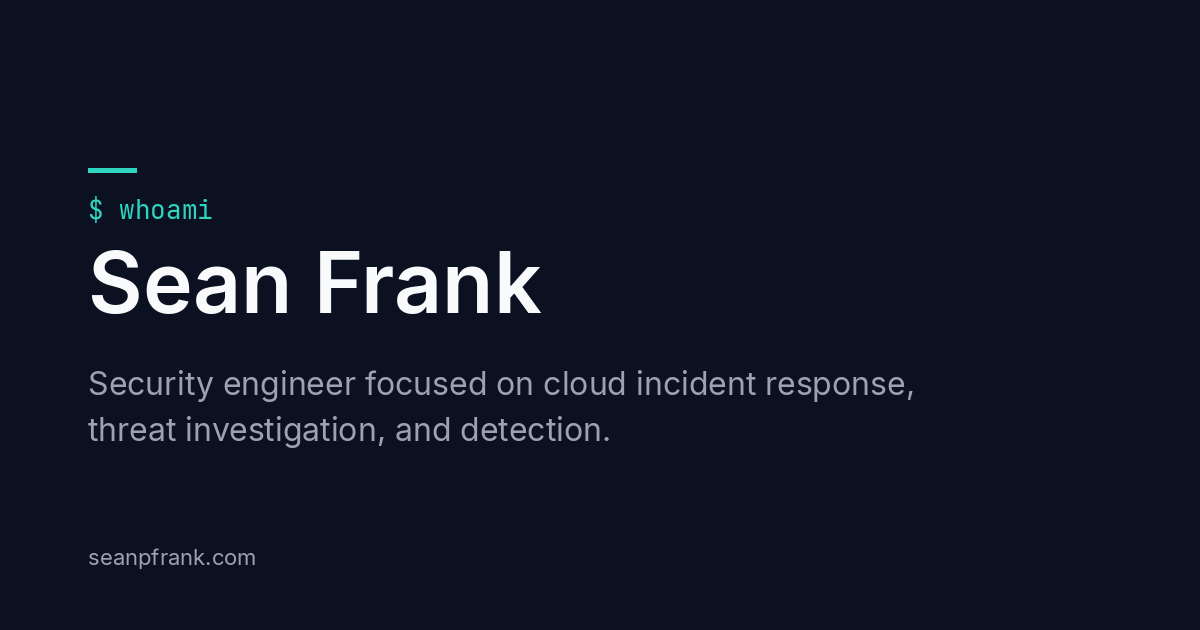
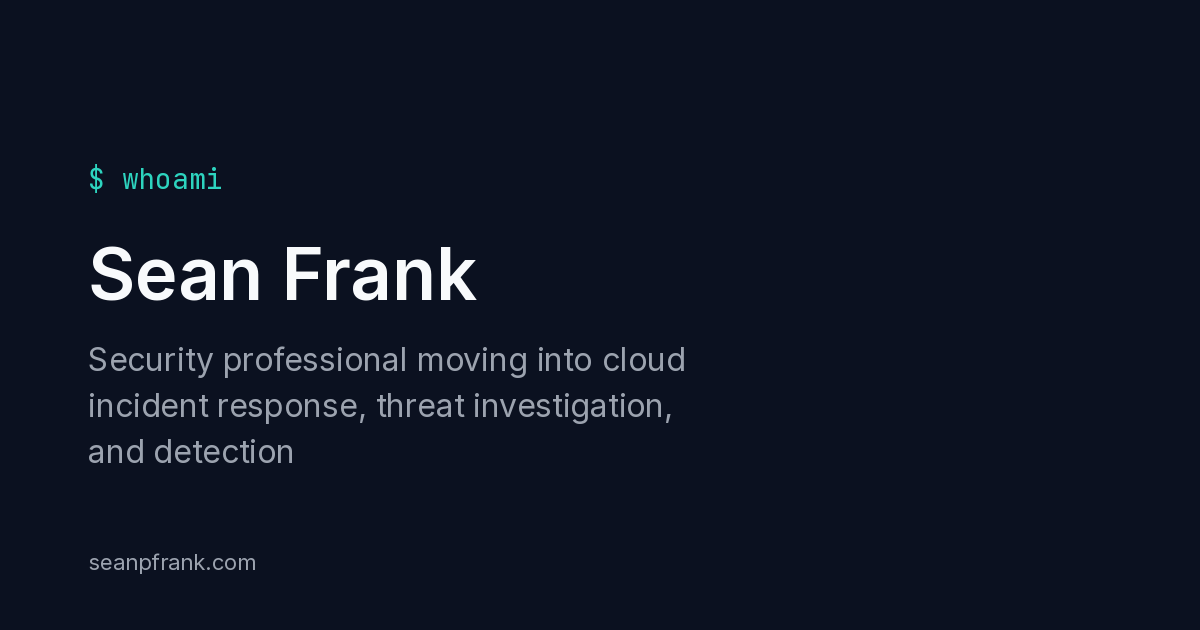
Update role description (#3)
Describe Sean as a security professional moving into cloud incident response, and set the structured-data job title to Trust and Safety Specialist.

diff --git a/index.html b/index.html
@@ -15,7 +15,7 @@ permalink: /
 <section class="section" id="about" aria-labelledby="about-heading">
   <h2 id="about-heading">About</h2>
   <div class="prose">
-    <p>Sean Frank is a security engineer at a large cloud provider. He is focused on cloud incident response, threat investigation, and detection, and he cares about keeping the internet a safer place.</p>
+    <p>Sean Frank is a security professional at a large cloud provider, moving into cloud incident response. He is focused on threat investigation and detection, and he cares about keeping the internet a safer place.</p>
     <p>He is based in Northern Virginia. Away from work he is a music nerd, and he likes learning how the whole creation process works. Lately that means building out a home studio and continuing to learn production and engineering.</p>
   </div>
 </section>

diff --git a/_includes/json-ld.html b/_includes/json-ld.html
@@ -38,7 +38,7 @@
       "@id": {{ person_id | jsonify }},
       "name": {{ site.author.name | jsonify }},
       "url": {{ site.url | jsonify }},
-      "jobTitle": "Security Engineer",
+      "jobTitle": "Trust and Safety Specialist",
       "description": {{ site.role | jsonify }},
       "disambiguatingDescription": {{ site.disambiguation | jsonify }},
       "knowsAbout": {{ site.data.focus | jsonify }},

diff --git a/writing.html b/writing.html
@@ -1,7 +1,7 @@
 ---
 layout: default
 title: Writing
-description: "Writing by Sean Frank, a security engineer focused on cloud incident response, threat investigation, and detection."
+description: "Writing by Sean Frank, a security professional moving into cloud incident response, threat investigation, and detection."
 permalink: /writing/
 redirect_from:
   - /archive.html
